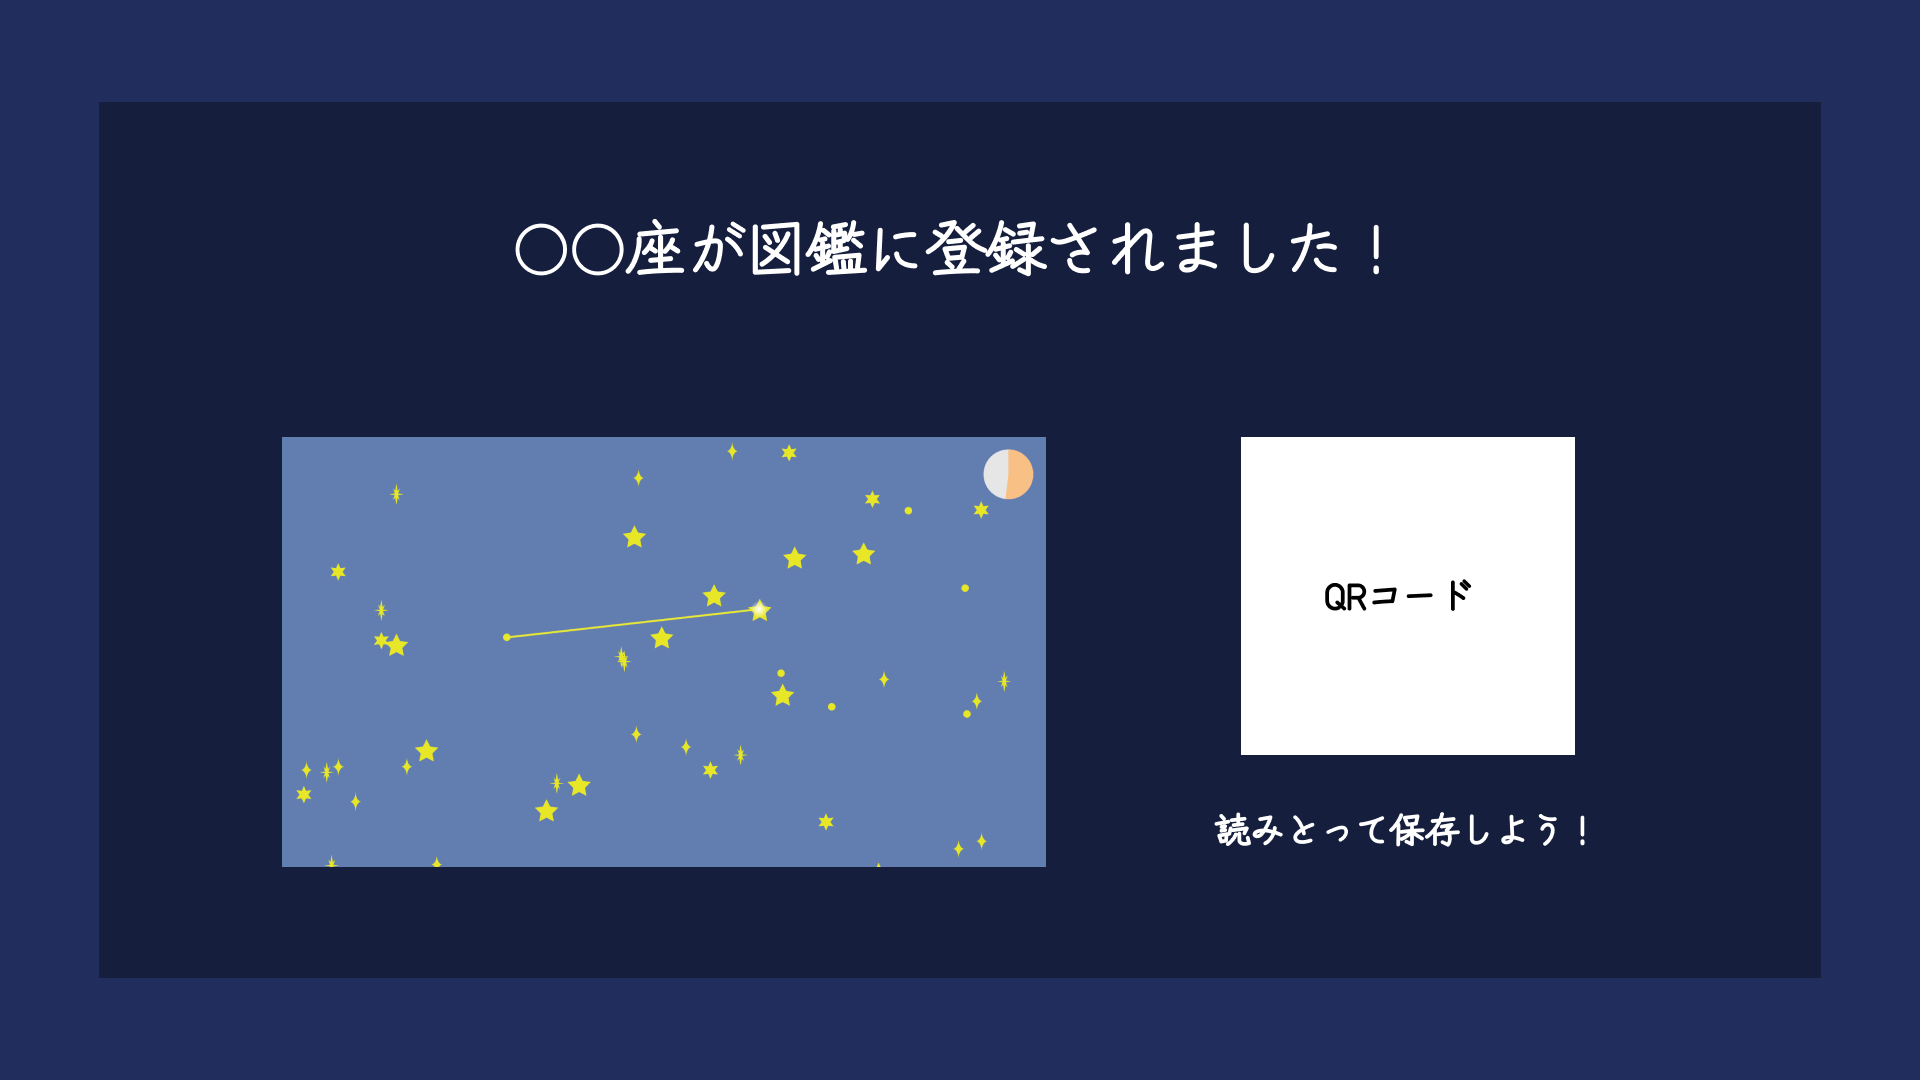
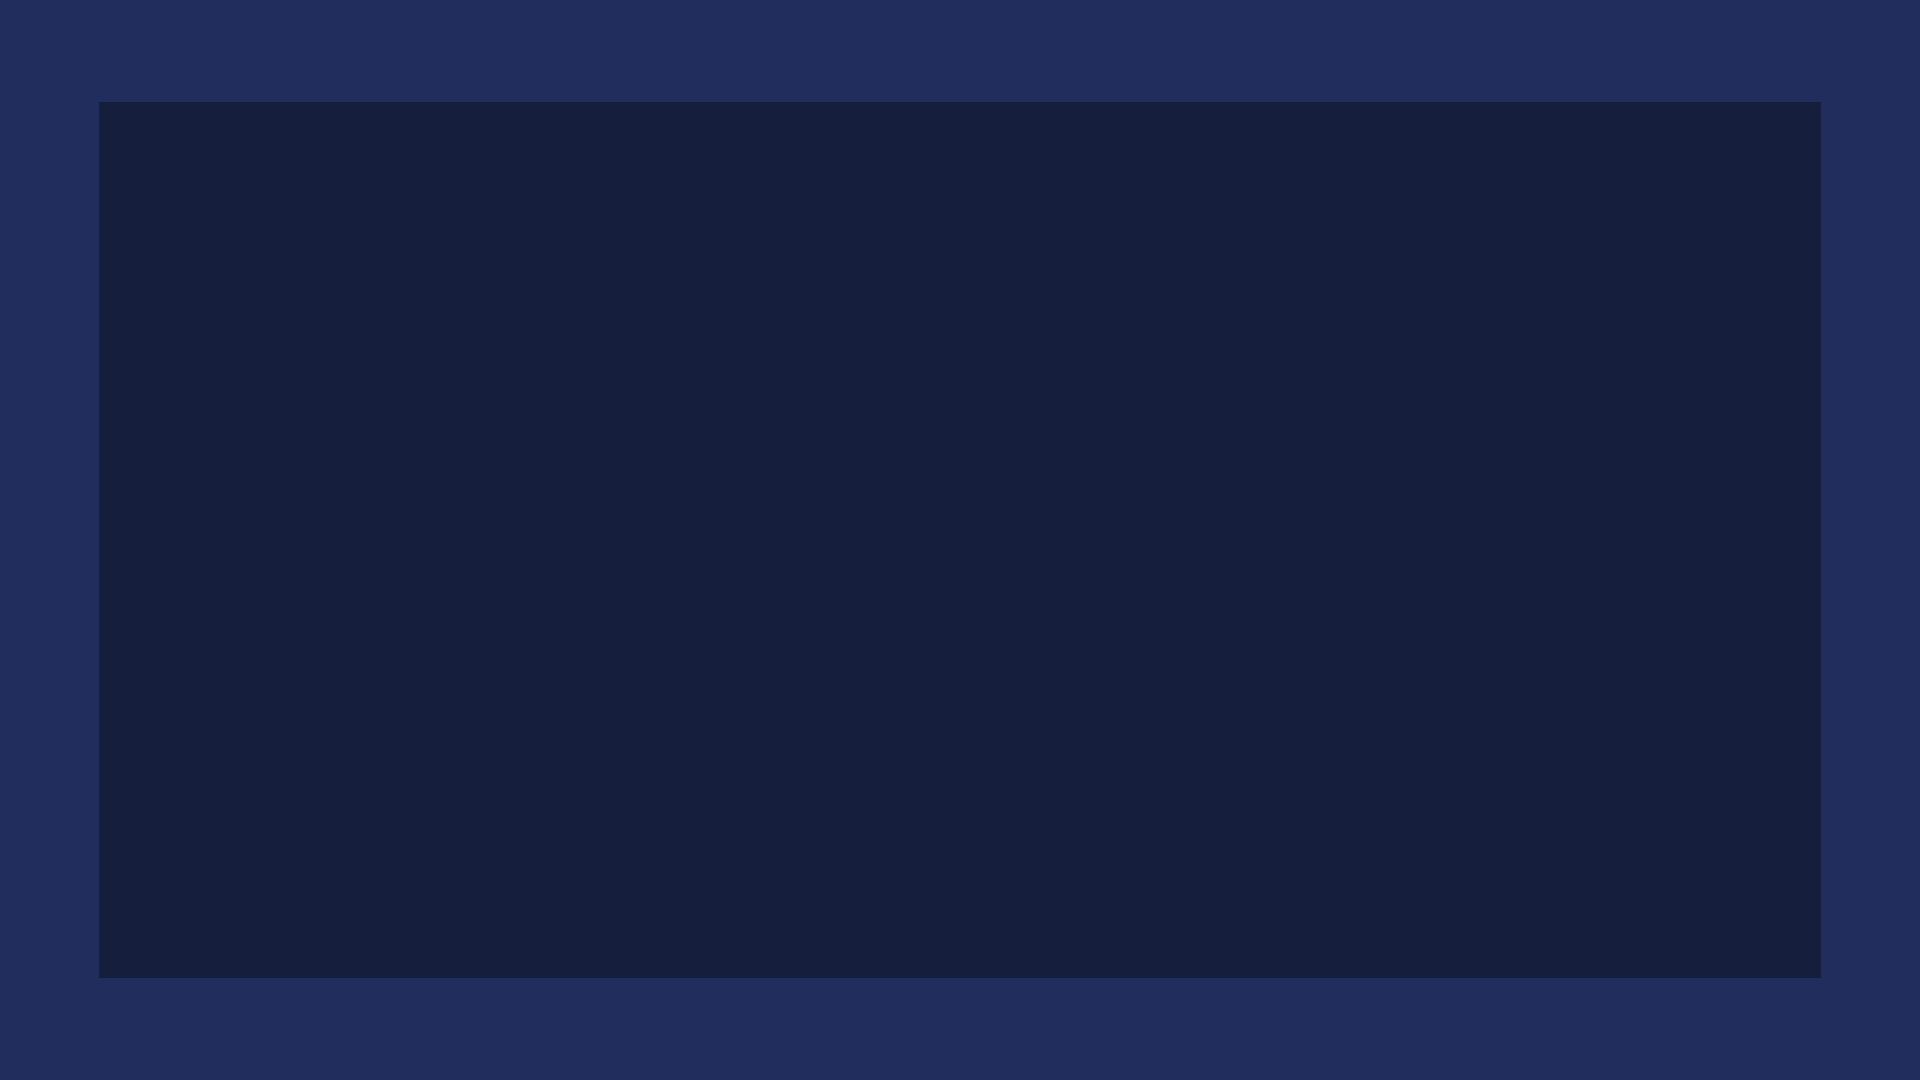
10/31プッシュ。表示したい画面を重ねて配置しました。あと、星座図鑑のページの見た目だけを作っておきました。

diff --git a/qrcode.min.js b/qrcode.min.js
@@ -1,0 +1,1 @@
[1 lines of base64/hex data omitted]

diff --git a/star.css b/star.css
@@ -15,8 +15,9 @@
 }
 
 .canvas-container {
-    position: relative;
-    z-index: 1;
+    position: absolute;
+    z-index: 3; 
+    top: 0;
 }
 
 #suffix {
@@ -158,23 +159,92 @@ ul {
 
 .change {
     justify-content: center;
-    position: relative;
+    position: absolute;
     width: 100%;
     height: 100%;
+    z-index: 2; 
+    top: 0;
 }
 
-.start {
+.start{
     justify-content: center;
-    position: relative;
+    position: absolute;
     width: 100%;
     height: 100%;
+    z-index: 10;
+    top: 0;
+}
+.start_backimage {
+    justify-content: center;
+    position: absolute;
+    width: 100%;
+    height: 100%;
+    z-index: 1;
+    top: 0;
+}
+
+.start_button {
+    justify-content: center;
+    position: absolute;
+    z-index: 2; 
+    top: 640px;
+    left: 40%;
 }
 
 .save {
     justify-content: center;
-    position: relative;
+    position: absolute;
     width: 100%;
     height: 100%;
+    z-index: 5;
+    top: 0;
+}
+
+.save_title{
+    justify-content: center;
+    text-align: center;
+    font-size: 25px;
+    position: absolute;
+    color: white;
+    z-index: 2;
+    top: 130px;
+    left: 650px;
+}
+
+.save_title2{
+    justify-content: center;
+    font-size: 15px;
+    position: absolute;
+    color: white;
+    z-index: 2;
+    top: 730px;
+    left: 1235px;
+}
+
+.save_backimage{
+    position: absolute;
+    justify-content: center;
+    width: 100%;
+    height: 100%;
+    z-index: 1;
+    top: 0;
+    
+}
+
+.save_seiza{
+    position: absolute;
+    justify-content: center;
+    z-index: 2;
+    top: 350px;
+    left: 255px;
+}
+
+.save_qr{
+    position: absolute;
+    justify-content: center;
+    z-index: 2;
+    top: 350px;
+    left: 1225px;
 }
 
 .a-button {

diff --git a/app.js b/app.js
@@ -1,0 +1,62 @@
+const BASE_URL = 'https://www.air-canvas.ml';
+
+/**
+ * sha256
+ */
+const sha256 = async (str) => {
+  const uint8 = new TextEncoder().encode(str);
+  const digest = await crypto.subtle.digest('SHA-256', uint8);
+
+  return Array.from(new Uint8Array(digest))
+    .map((v) => v.toString(16).padStart(2, '0'))
+    .join('');
+};
+
+/**
+ * getContents
+ */
+const getContents = () => {
+  return new Promise((resolve) => {
+    (async () => {
+      const response = await fetch('https://igvtijkfm65uglxdjc4axa6unq0fdnup.lambda-url.ap-northeast-1.on.aws/');
+      const data = await response.json();
+
+      resolve(data.contents);
+    })();
+  });
+};
+
+(() => {
+  const mainElement = document.querySelector('#js-main');
+  
+  setInterval(async () => {
+    const contents = await getContents();
+
+    contents.forEach(async (content) => {
+      const { Key } = content;
+      const id = await sha256(Key);
+      const qrRootElement = document.querySelector(`#qr-${id}`);
+      const src = `${BASE_URL}/${Key}`;
+
+      if (!qrRootElement) {
+        const qrContainer = document.createElement('div');
+        qrContainer.classList.add('qr-container');
+
+        new QRCode(qrContainer, src);
+
+        mainElement.insertAdjacentHTML(
+          'afterbegin',
+`
+<a id="qr-${id}" class="qr" href="${src}">
+  <img class="qr-Img" src="${src}">
+</a>
+`
+        );
+
+        document
+          .querySelector(`#qr-${id}`)
+          .appendChild(qrContainer);
+      }
+    });
+  }, 1000 * 10);
+})();

diff --git a/index.html b/index.html
@@ -154,19 +154,31 @@
 
   </div>
 
-  
-
 <script src="seiza2-1.js"></script>
+
+
+
 <div class="change">
   <img src="change.png" alt="交代の案内画像" class="change">
 </div>
 
 <div class="start">
-  <img src="start.png" alt="スタート案内画像" class="change">
+  <img src="start.png" alt="スタート案内画像" class="start_backimage">
+  <button type="startbutton">
+    <img src="startbutton.png" alt="スタートボタン画像" class="start_button">
+  </button>
 </div>
 
 <div class="save">
-  <img src="save.png" alt="図鑑に保存された時の案内画像" class="change">
+  <div class="save_title">
+    <h1>
+      <span>○○</span>座が<br>図鑑に登録されました！
+    </h1>
+  </div>
+  <div class="save_title2"><h1>よみとって保存しよう！</h1></div>
+  <img src="save.png" alt="図鑑に保存された時の案内画像" class="save_backimage">
+  <img src="seiza.png" alt="保存した星座のダミー画像" class="save_seiza">
+  <img src="qr.png" alt="保存した星座のQRコードのダミー画像" class="save_qr">
 </div>
 
 

diff --git a/index2.html b/index2.html
@@ -4,10 +4,24 @@
         <meta charset="utf-8">
         <title>みんなの星座図鑑</title>
         <link rel="stylesheet" href="star2.css">
+        <link rel="stylesheet" href="https://unpkg.com/ress/dist/ress.min.css">
+        <link rel="preconnect" href="https://fonts.googleapis.com">
+        <link rel="preconnect" href="https://fonts.gstatic.com" crossorigin>
+        <link href="https://fonts.googleapis.com/css2?family=Fjalla+One&family=Josefin+Sans:ital,wght@1,100&family=Zen+Kurenaido&display=swap" rel="stylesheet">
     </head>
 
 
     <body>
+
+        <header class="header">
+            <h1 class="header-Heading">StarGarally</h1>
+          </header>
+        
+          <main id="js-main" class="main"></main>
+        
+          <script src="qrcode.min.js"></script>
+          <script src="app.js"></script>
+        </body>
 
     </body>
 

diff --git a/star2.css b/star2.css
@@ -1,0 +1,47 @@
+.header {
+    border-bottom: solid 1px #37352f29;
+    font-family: 'Fjalla One', sans-serif;
+    font-family: 'Josefin Sans', sans-serif;
+    font-family: 'Zen Kurenaido', sans-serif;
+  }
+  
+  .header-Heading {
+    color: #333;
+    font-size: 32px;
+    text-align: center;
+    padding: 0.6em 1em;
+  }
+  
+  .main {
+    display: flex;
+    flex-wrap: wrap;
+    padding: 8px;
+  }
+  
+  .qr {
+    border: solid 1px #37352f29;
+    display: block;
+    width: 25%;
+    padding: 16px;
+  }
+  
+  .qr-Img {
+    border: solid 1px #37352f29;
+    max-width: 100%;
+    width: 100%;
+    height: auto;
+    margin: 0 0 16px;
+    vertical-align: top;
+  }
+  
+  .qr-container {
+    padding: 0 20%;
+  }
+  
+  .qr-container img {
+    max-width: 100%;
+    width: 100%;
+    height: auto;
+    vertical-align: top;
+  }
+  
